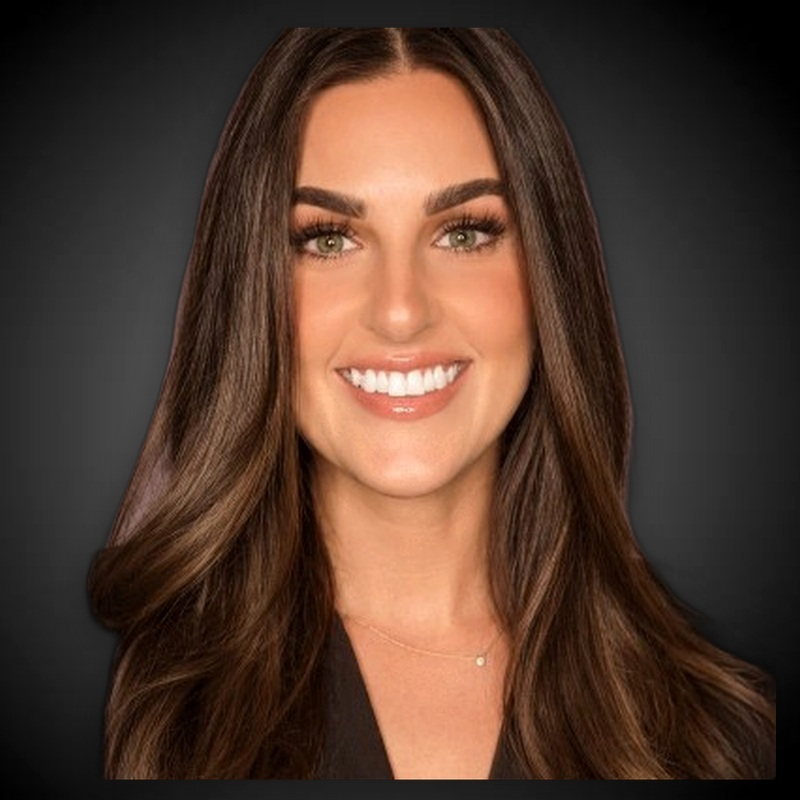
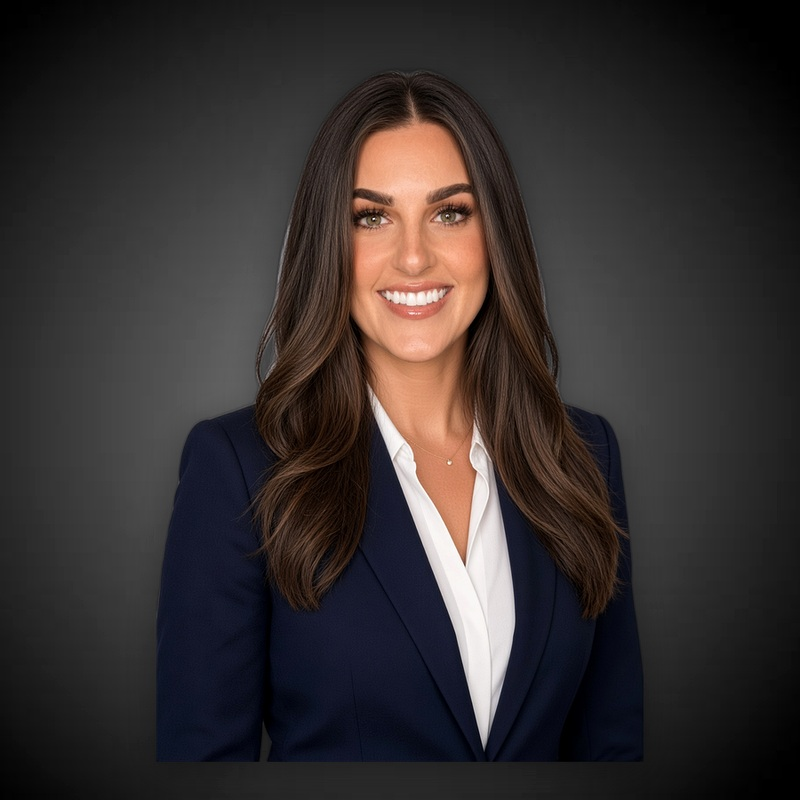
preview 1920: full team Style G headshots from new batch (varied crops); Stephanie/Hadley labels corrected

diff --git a/index.html b/index.html
@@ -6,15 +6,15 @@
 <meta name="color-scheme" content="dark light" />
 <meta name="description" content="Adaptive Medical Partners — 87% retention at 3 years, 1.7 avg interviews per placement, 700+ rural/FQHC/CAH partners, 16 years since 2010. Explore the Range with AMP." />
 <title>AMP · Explore the Range · Adaptive Medical Partners</title>
-<link rel="stylesheet" href="css/site.css?v=1919" />
-<link rel="preload" as="image" href="assets/hero-mountain-wide.png?v=1919" />
+<link rel="stylesheet" href="css/site.css?v=1920" />
+<link rel="preload" as="image" href="assets/hero-mountain-wide.png?v=1920" />
 </head>
 <body>
 <div id="approach-video-hold" class="approach-video-hold" aria-hidden="true" hidden></div>
 <nav class="site-nav is-home" id="site-nav" aria-label="Primary">
   <button type="button" class="brand brand-lockup brand-glow-white" data-go="home" aria-label="AMP Adaptive Medical Partners home">
-    <img class="brand-lockup-img is-white" src="assets/amp-lockup-nav.png?v=1919" alt="Adaptive Medical Partners" width="304" height="68" />
-    <img class="brand-lockup-img is-black" src="assets/amp-lockup-nav-black.png?v=1919" alt="" width="304" height="68" />
+    <img class="brand-lockup-img is-white" src="assets/amp-lockup-nav.png?v=1920" alt="Adaptive Medical Partners" width="304" height="68" />
+    <img class="brand-lockup-img is-black" src="assets/amp-lockup-nav-black.png?v=1920" alt="" width="304" height="68" />
   </button>
   <div class="nav-links">
     <button type="button" class="nav-link hide-sm" data-go="physician">Physicians</button>
@@ -34,8 +34,8 @@
 
 <!-- ========== HOME: zoomed-OUT wide mountain + clean copy (no auto zoom-in) ========== -->
 <section class="view on home-stage settled" data-route="home" id="home-stage">
-  <img class="home-poster" src="assets/hero-mountain-wide.png?v=1919" alt="" />
-  <video id="home-video" class="home-video" src="assets/imagine-home.mp4?v=1919" poster="assets/hero-mountain-wide.png?v=1919" playsinline muted preload="metadata"></video>
+  <img class="home-poster" src="assets/hero-mountain-wide.png?v=1920" alt="" />
+  <video id="home-video" class="home-video" src="assets/imagine-home.mp4?v=1920" poster="assets/hero-mountain-wide.png?v=1920" playsinline muted preload="metadata"></video>
   <div class="home-mist" aria-hidden="true"></div>
   <button type="button" class="home-skip" data-play-approach hidden>Watch the approach</button>
   <div class="home-overlay">
@@ -85,7 +85,7 @@
 <!-- ========== PHYSICIAN FUNNEL ========== -->
 <section class="view page funnel trailhead" data-route="physician">
   <div class="shot" aria-hidden="true">
-    <img class="still" src="assets/trailhead-specialty-baked.png?v=1919" alt="" />
+    <img class="still" src="assets/trailhead-specialty-baked.png?v=1920" alt="" />
   </div>
   <div class="trailhead-stage">
     <div class="trailhead-top">
@@ -299,7 +299,7 @@
 <!-- ========== CLIENT FUNNEL (same trail transition family) ========== -->
 <section class="view page funnel trailhead" data-route="client">
   <div class="shot" aria-hidden="true">
-    <img class="still" src="assets/trailhead-facility-baked.png?v=1919" alt="" />
+    <img class="still" src="assets/trailhead-facility-baked.png?v=1920" alt="" />
   </div>
   <div class="trailhead-stage">
     <div class="trailhead-top">
@@ -1375,9 +1375,9 @@
 }
 </script>
 
-<script src="js/content.js?v=1919"></script>
-<script src="js/articles.js?v=1919"></script>
-<script src="js/app.js?v=1919"></script>
+<script src="js/content.js?v=1920"></script>
+<script src="js/articles.js?v=1920"></script>
+<script src="js/app.js?v=1920"></script>
 <template id="amp-region-map-template">
 <div class="region-map-shell">
   <div class="region-map-intro">

diff --git a/css/site.css b/css/site.css
@@ -3193,7 +3193,7 @@ body.amp-live-trailhead .view.trailhead.on .trailhead-top .crumb button {
     object-position: 28% 50% !important;
   }
   .view.funnel.trailhead.on::after {
-    content: "preview 1919";
+    content: "preview 1920";
     position: fixed;
     left: 10px;
     bottom: calc(12px + env(safe-area-inset-bottom, 0px));

diff --git a/js/app.js b/js/app.js
@@ -128,7 +128,7 @@
   }
 
   function trailheadBakeSrc(route) {
-    var v = "1919";
+    var v = "1920";
     if (route === "client") return "assets/trailhead-facility-baked.png?v=" + v;
     return "assets/trailhead-specialty-baked.png?v=" + v;
   }
